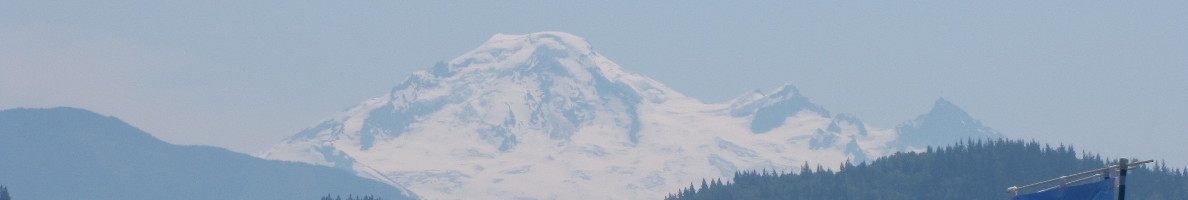
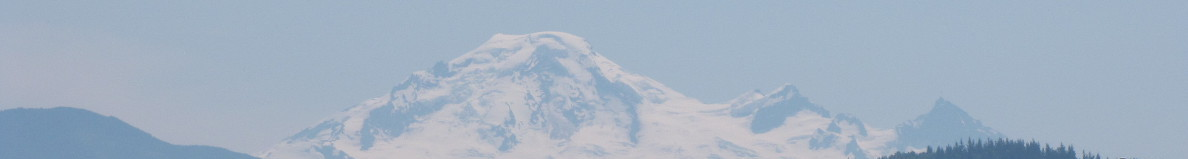
bio widget update and header cleanup

diff --git a/public/scripts/lib/graffiti.js b/public/scripts/lib/graffiti.js
@@ -29,14 +29,14 @@ var Graffiti = (function(window, undefined){
 //      var p = biowidget().getMarkup();
 //      console.log('fuck yeah: ' + p);
       $('.main-aside').append(biowidget().getMarkup());
-      var div = document.createElement("div");
-      div.innerHTML = "<p>follow me on twtter:</p>";
-      var fragment = document.createDocumentFragment();
-      while ( div.firstChild ) {
-        fragment.appendChild( div.firstChild );
-      }
-      $('.main-aside').append(fragment);
-      renderTwitterFollowButton();
+//      var div = document.createElement("div");
+//      div.innerHTML = "<p>follow me on twtter:</p>";
+//      var fragment = document.createDocumentFragment();
+//      while ( div.firstChild ) {
+//        fragment.appendChild( div.firstChild );
+//      }
+//      $('.main-aside').append(fragment);
+     // renderTwitterFollowButton();
 
 
     });

diff --git a/public/css/style.css b/public/css/style.css
@@ -8,7 +8,8 @@ body{
     letter-spacing:.09rem;
 }
 .page-header{
-    height:20rem;
+    height:16rem;
+    margin: 10px 0 10px;
     border:0px solid red;
     border-radius:1rem 1rem 0 0;
     background: transparent url(images/baker.jpg) left center no-repeat;
@@ -31,6 +32,7 @@ body{
 
 }
 .main-aside{
+    padding-top:2rem;
     border:0px solid green;
     font-size:85%;
 }
@@ -52,4 +54,16 @@ body{
     letter-spacing:.05rem;
     color:#3b49a0;
 
+}
+.avatar-frame{
+    display:inline-block;
+    padding:.67rem;
+    border-top:1px double #cccccc;
+    border-right:2px double #aaaaaa;
+    border-bottom:2px double #aaaaaa;
+    border-left:1px double #cccccc;
+    border-radius:1rem;
+}
+.avatar-image{
+    border-radius:.6rem;
 }

diff --git a/public/scripts/widgets/bio/bio.widget.js b/public/scripts/widgets/bio/bio.widget.js
@@ -1,11 +1,12 @@
 function biowidget(){
 
   var biowidget = {};
-  var outputMarkup = '<div><img src="/scripts/widgets/bio/images/avatar.png" /><p>My name is Sean and this is my blog</p></div>';
+  var outputMarkup = '<div><span class="avatar-frame"><img class="avatar-image" src="/scripts/widgets/bio/images/avatar.png" /></span><p>My name is Sean and this is my blog</p></div>';
+  var twitterButtonMarkup = '<p>you can follow me on twitter:</p><a href="https://twitter.com/seanbrookes" target="_new" >@seanbrookes</a>';
 
   return {
     getMarkup:function(){
-      return outputMarkup;
+      return outputMarkup + twitterButtonMarkup;
     }
   };
 }
